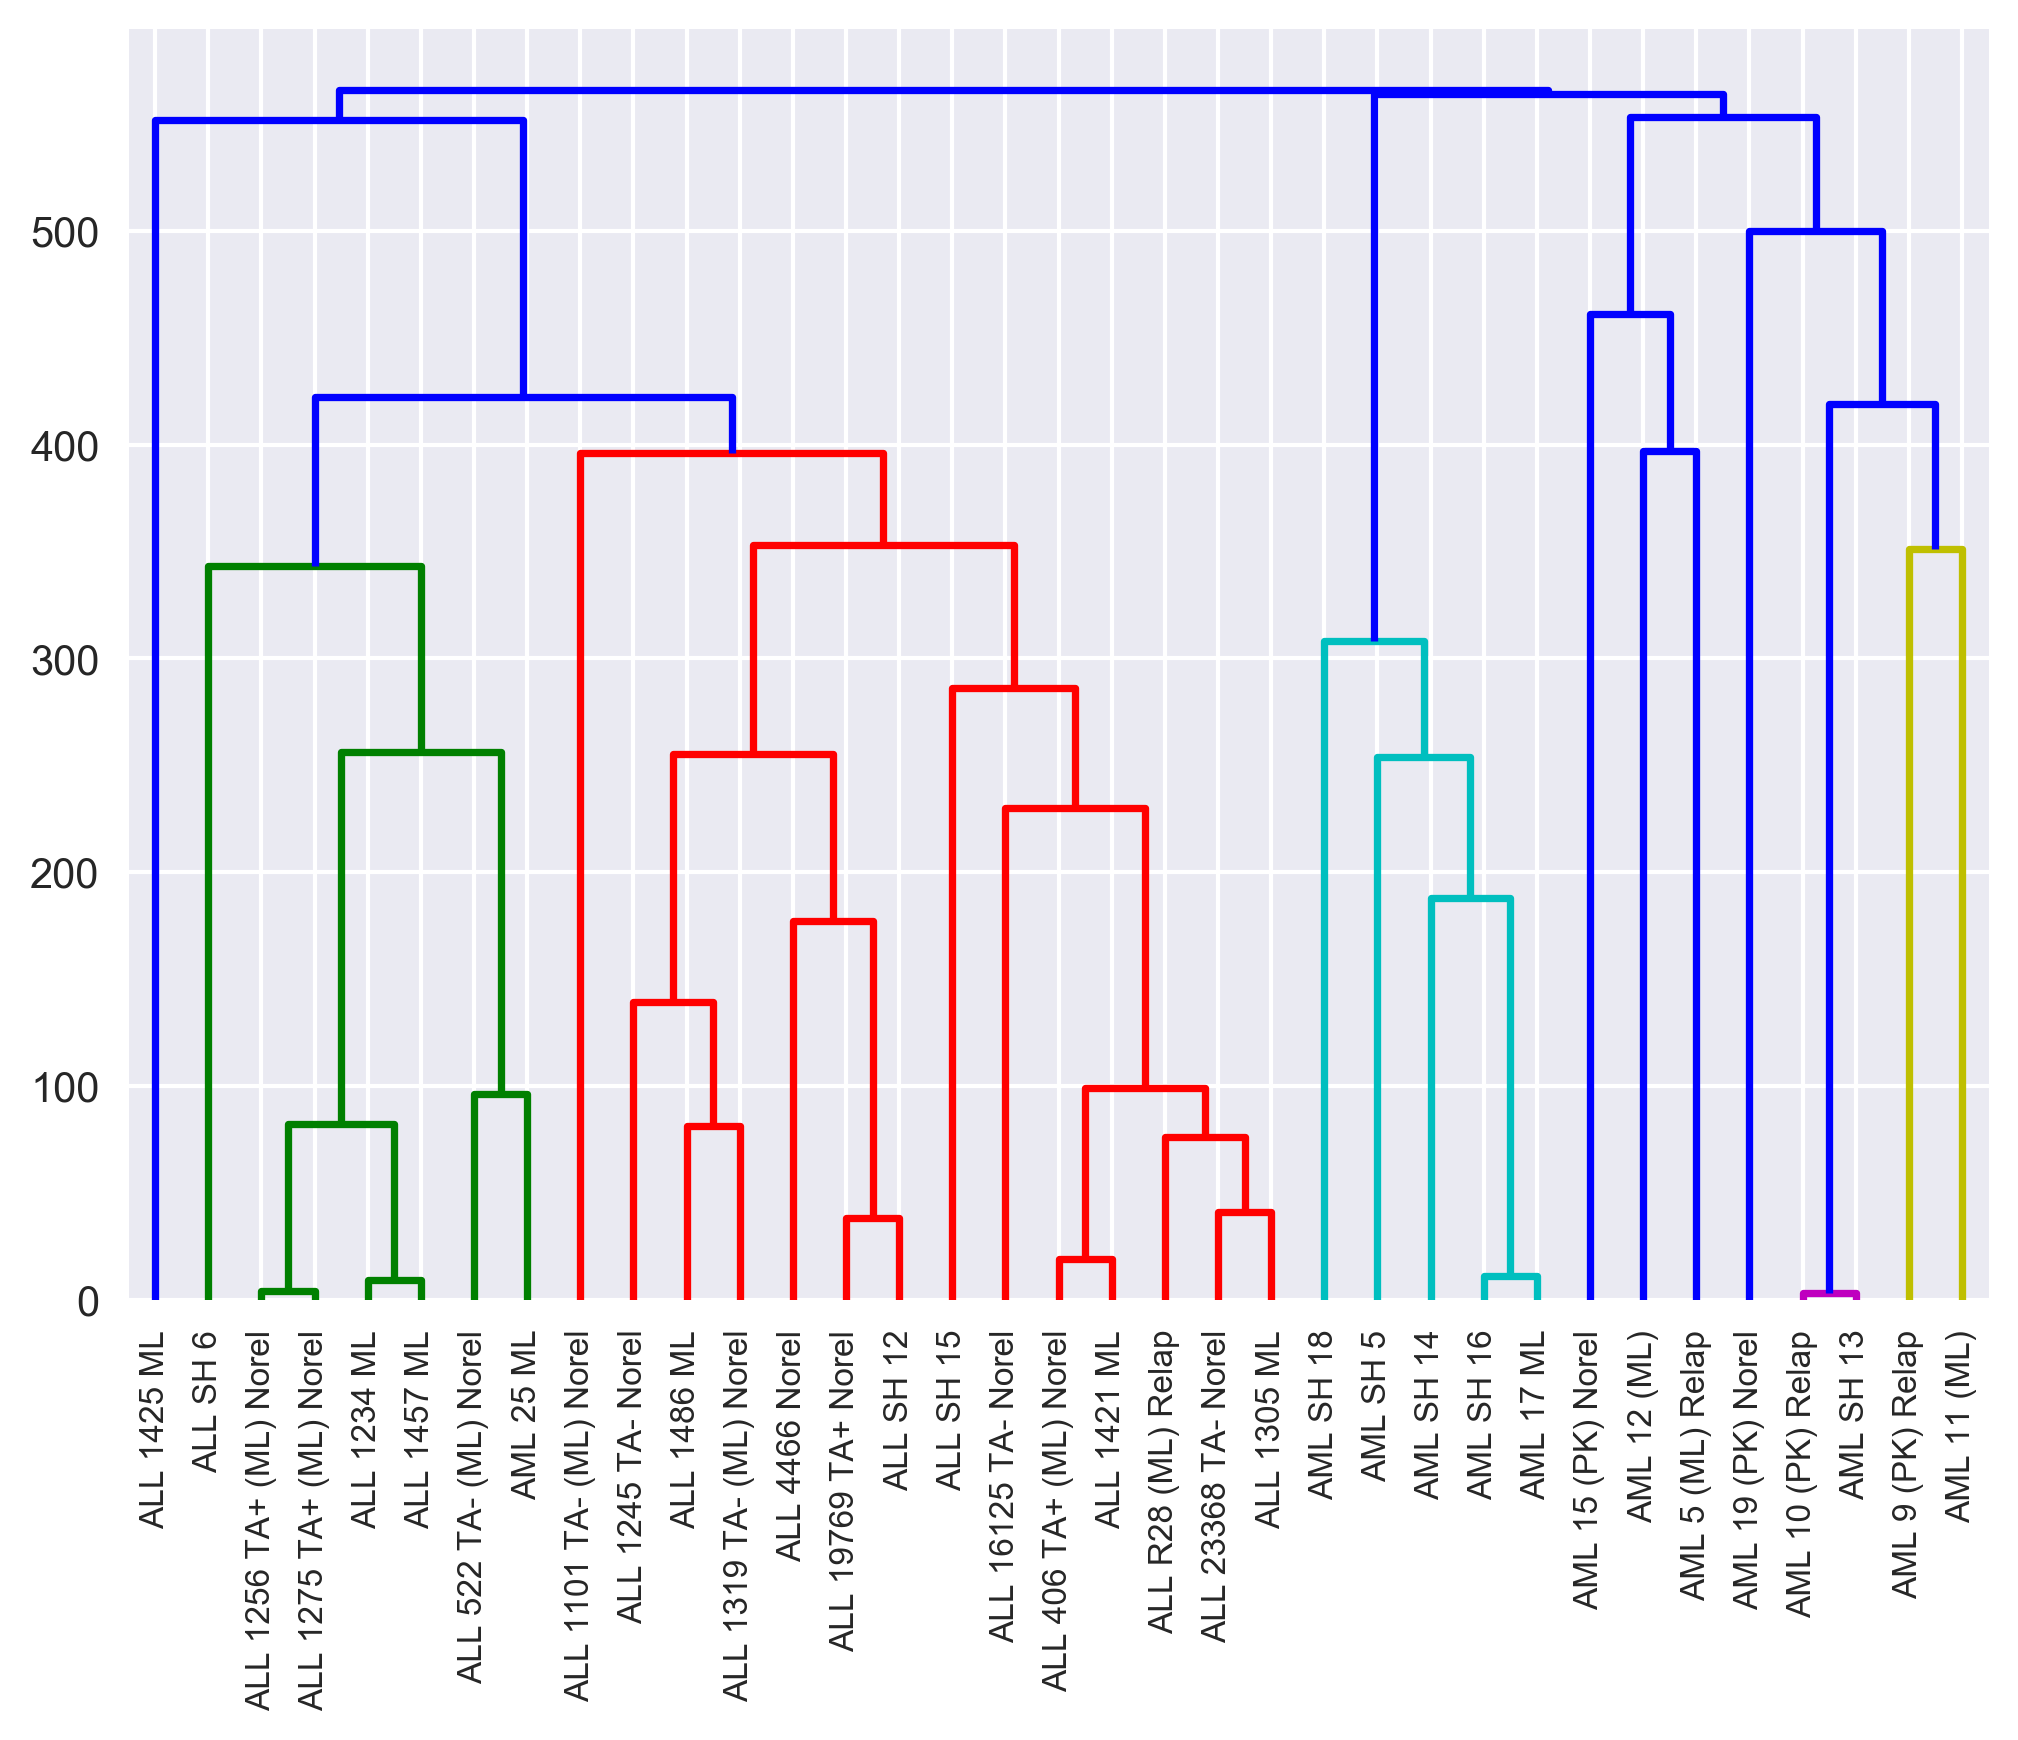
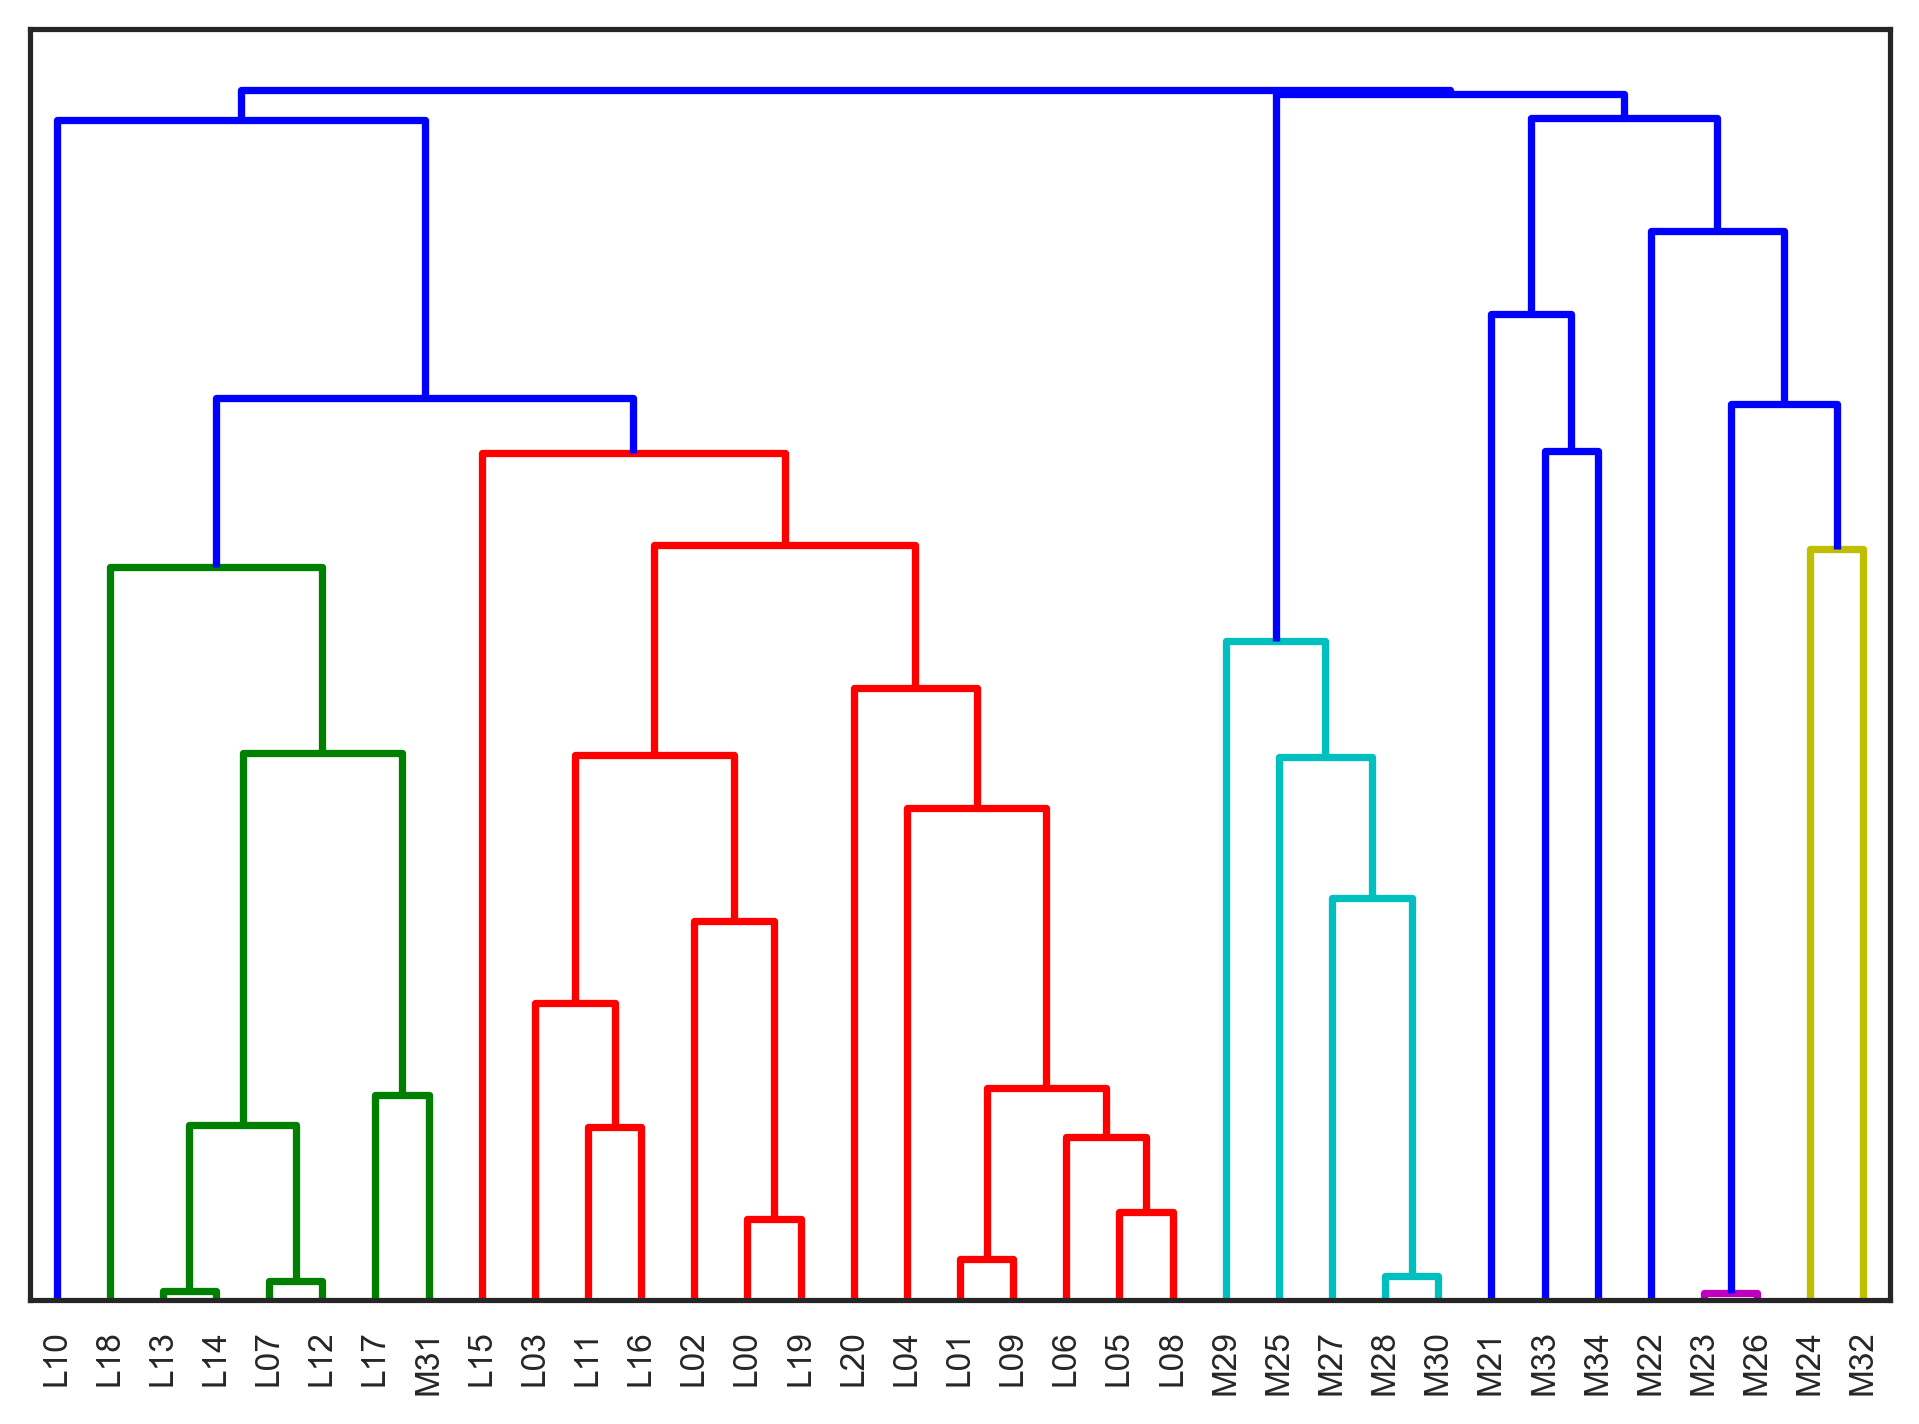
Modified the count_mislables function, which will be removed soon anyway ¯\_(ツ)_/¯

Changed region(s): [[0.0, 0.0, 1.0, 0.9888]]

diff --git a/src/HierarchicalClustering.py b/src/HierarchicalClustering.py
@@ -19,20 +19,48 @@ import pandas as pd
 import numpy as np
 import scipy
 import seaborn as sns
-import matplotlib.pyplot as plt
+from matplotlib import pyplot as plt
+from scipy.cluster.hierarchy import dendrogram
 from sklearn.cluster import AgglomerativeClustering
 from time import time
+from statistics import mode
+import cuscatlan as cusca
+sns.set_style("white")
 
-def custom_pearson(x, y):
-    return scipy.stats.pearsonr(x, y)[0]
+def plot_dendrogram(model, **kwargs):
+    #modified from https://github.com/scikit-learn/scikit-learn/pull/3464/files
+    # Children of hierarchical clustering
+    children = model.children_
+    # Distances between each pair of children
+    distance = dendodist(children)
+    # The number of observations contained in each cluster level
+    no_of_observations = np.arange(2, children.shape[0]+2)
+    # Create linkage matrix and then plot the dendrogram
+    linkage_matrix = np.column_stack([children, distance, no_of_observations]).astype(float)
+    # Plot the corresponding dendrogram
+    R = dendrogram(linkage_matrix, **kwargs)
+    [label.set_rotation(90) for label in plt.gca().get_xticklabels()]
+    order_of_columns = R['ivl']
+    # print(order_of_columns)
+
+    plt.gca().get_yaxis().set_visible(False)
+    return order_of_columns
 
 
 def myaffintyp(M):
-    return np.array([[custom_pearson(a, b) for a in M]for b in M])
+    return np.array([[cusca.custom_pearson(a, b) for a in M]for b in M])
 
 
-def count_mislabels(labels, true):
-    return count_diff(labels[:21]) + count_diff(labels[21:])
+def count_mislabels(labels, true_labels):
+    clusters = np.unique(true_labels)
+    mislabels = 0
+    for curr_clust in clusters:
+        # print("for label", curr_clust)
+        # print("\t", labels[(true_labels == curr_clust)])
+        compare_to = mode(labels[(true_labels == curr_clust)])
+        # print("\t", compare_to, np.sum(labels[(true_labels == curr_clust)] != compare_to))
+        mislabels += np.count_nonzero(labels[(true_labels == curr_clust)] != compare_to)
+    return mislabels
 
 
 def count_diff(x):
@@ -68,69 +96,72 @@ func_dic = {
     'l2': 'l2',
     'manhattan': 'manhattan',
     'cosine': 'cosine',
+    'euclidean': 'euclidean',
 }
 
-df1 = pd.read_csv("../data/test_dataset.gct", sep='\t', skiprows=2)
+data_df = pd.read_csv("../data/test_dataset.gct", sep='\t', skiprows=2)
 # plot_labels = [item[:3] for item in list(df1)]
-plot_short_labels = [item[1] for item in list(df1)]
-plot_labels = list(df1)
-df = pd.read_csv("../data/test_dataset.gct", sep='\t', skiprows=2)
-df.drop(['Name', 'Description'], axis=1, inplace=True)
-data = df.as_matrix().T
+data_df.set_index(data_df['Name'], inplace=True)
+data_df.drop(['Name', 'Description'], axis=1, inplace=True)
+plot_short_labels = [item[1]+"{:02d}".format(i) for item, i in zip(list(data_df), range(len(list(data_df))))]
+data_df.columns = plot_short_labels
+
+plot_labels = list(data_df)
+# df = pd.read_csv("../data/test_dataset.gct", sep='\t', skiprows=2)
+# df.drop(['Name', 'Description'], axis=1, inplace=True)
+data = data_df.as_matrix().T
 
 # Reading the cls for the
 df = pd.read_csv("../data/test_dataset.cls", sep=' ', skiprows=2, header=None)
 new_labels = np.asarray(df.as_matrix().T)
 new_labels = new_labels.reshape(new_labels.shape[0],)
 
-# clustering = AgglomerativeClustering(linkage='average', n_clusters=2, affinity=myaffintyp)
-# clustering = AgglomerativeClustering(linkage='average', n_clusters=2, affinity='euclidean')
-clustering = AgglomerativeClustering(linkage='average', n_clusters=2, affinity=myaffintye)
-t0 = time()
-clustering.fit(data)
-# TODO: improve the count_mislabels function. E.g., it outputs the wrong value when all labels are the same
-# todo: also, the index for separating the lables is currently hardcoded. I should replace this function with one that
-# todo: reads the correct lables and knows how many elements in a row should appear, saves this as a vector...
-# todo: and checks that the created lables follow the same pattern. This will scale for more than two lables.
-print("{} : {:3.2g}s : {} mislabels".format(
-    func_dic[myaffintyp], time() - t0, count_mislabels(clustering.labels_, new_labels)))
+af_to_use = myaffintyp
+for af_to_use in func_dic.keys():
+    model = AgglomerativeClustering(linkage='average', n_clusters=2, affinity=af_to_use)
+    # model = AgglomerativeClustering(linkage='average', n_clusters=2, affinity='euclidean')
+    # clustering = AgglomerativeClustering(linkage='average', n_clusters=2, affinity=myaffintye)
+    t0 = time()
+    model.fit(data)
+    print("{:>16s}: {:3.2g}s\t: {} mislabels".format(
+        func_dic[af_to_use], time() - t0, count_mislabels(model.labels_, new_labels)))
+    # print(new_labels)
+    # print(model.labels_)
+    # print(np.sum(new_labels == model.labels_), '"Real errors"')
 
 # print(new_labels)
 # print(clustering.labels_)
-
 # import itertools
 # X = data
-model = clustering
+# model = clustering
 # ii = itertools.count(X.shape[0])
-# [{'node_id': next(ii), 'left': x[0], 'right':x[1]} for x in model.children_]
+# print([{'node_id': next(ii), 'left': x[0], 'right':x[1]} for x in model.children_])
 
-from matplotlib import pyplot as plt
-from scipy.cluster.hierarchy import dendrogram
-def plot_dendrogram(model, **kwargs):
+# print(model.children_)
 
-    # Children of hierarchical clustering
-    children = model.children_
-
-    # Distances between each pair of children
-    # Since we don't have this information, we can use a uniform one for plotting
-#     print(children)
-#     distance = np.arange(children.shape[0])
-    distance = dendodist(children)
-#     print(distance)
-
-    # The number of observations contained in each cluster level
-    no_of_observations = np.arange(2, children.shape[0]+2)
-
-    # Create linkage matrix and then plot the dendrogram
-    linkage_matrix = np.column_stack([children, distance, no_of_observations]).astype(float)
-
-    # Plot the corresponding dendrogram
-    dendrogram(linkage_matrix, **kwargs)
-# plot_dendrogram(model, labels=plot_labels)
 
 fig = plt.figure(dpi=300)
-# plot_dendrogram(model, labels=plot_short_labels)
-plot_dendrogram(model, labels=plot_labels)
-[label.set_rotation(90) for label in plt.gca().get_xticklabels()]
+# order_of_columns = plot_dendrogram(model, labels=plot_short_labels)
+order_of_columns = plot_dendrogram(model, labels=plot_labels)
+
 # plt.show()
 plt.savefig('sample_cluster.png', dpi=300, bbox_inches='tight')
+
+
+def plot_heatmap(df, col_order, top=5, title_text='differentially expressed genes per phenotype'):
+    if not(len(col_order), len(list(df))):
+        exit("Number of columns in dataframe do not match the columns provided for ordering.")
+    # print(list(df), col_order)
+    df = df[col_order]
+    plt.clf()
+    sns.heatmap(df.iloc[np.r_[0:top, -top:0], :], cmap='coolwarm')
+    plt.yticks(rotation=0)
+    plt.xticks(rotation=90)
+    plt.title('Top {} {}'.format(top, title_text))
+    plt.ylabel('Genes')
+    plt.xlabel('Sample')
+    plt.savefig('heatmap.png', dpi=300, bbox_inches="tight")
+
+np.floor(len(data_df)/2)
+plot_heatmap(data_df, top=int(np.floor(len(data_df)/2)), col_order=order_of_columns)
+
